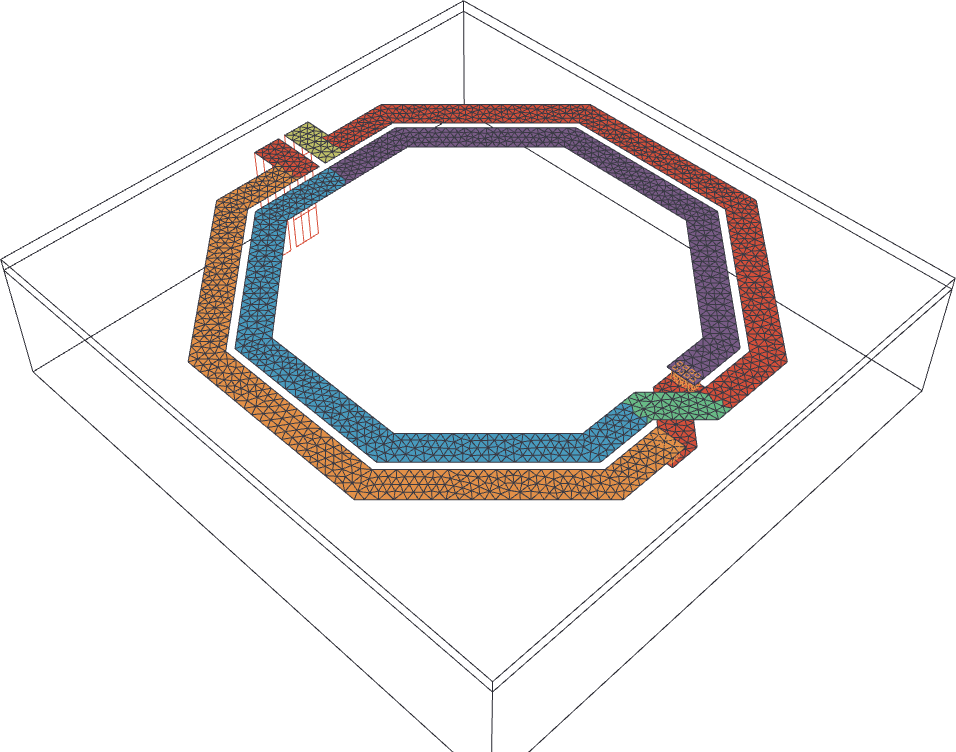
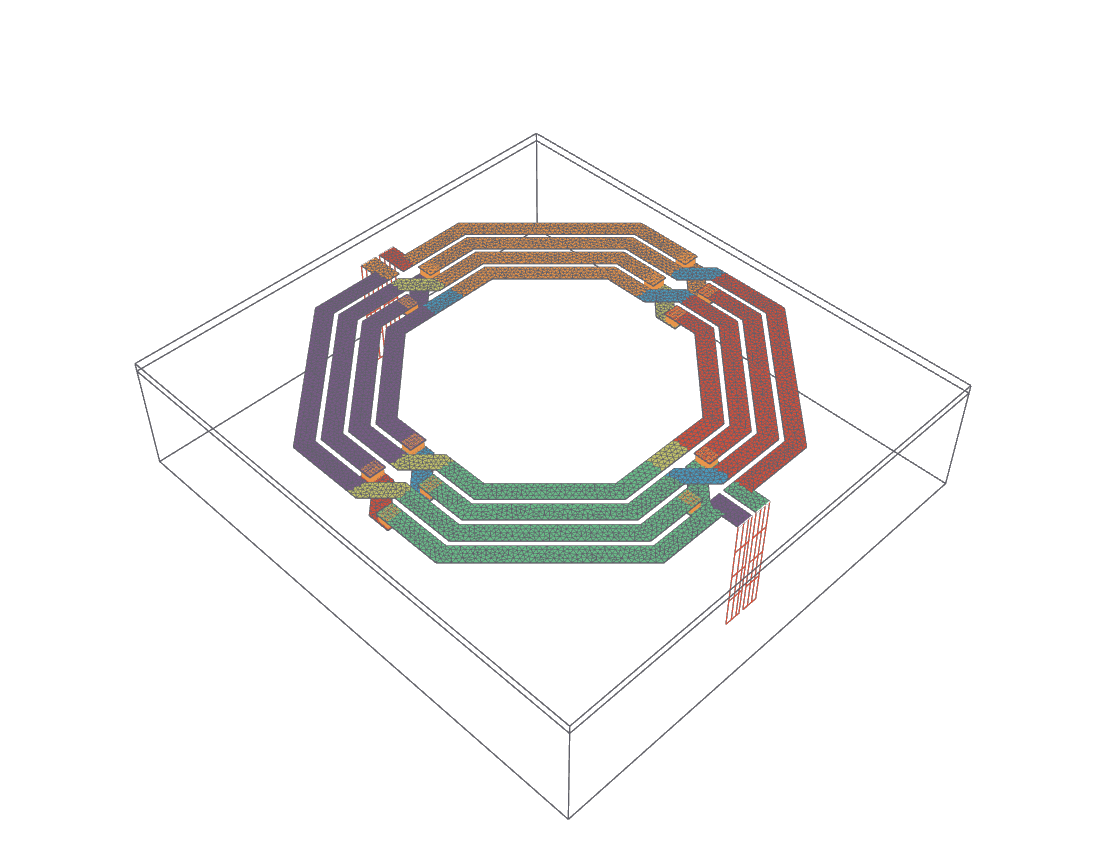
rapidmom tiles: transformer D250 mesh + current density renders (replace inductor images)

diff --git a/src/lib/components/CodeRainPage.svelte b/src/lib/components/CodeRainPage.svelte
@@ -38,7 +38,7 @@
 		'pysimhub-io': { name: 'PySimHub', url: 'https://pysimhub.io', screenshot: '/screenshots/pysimhub-io.png', color: 'pysimhub' },
 		'pysimhub-pathsim': { name: 'Project Page', url: 'https://pysimhub.io/projects/pathsim/', screenshot: '/screenshots/pysimhub-pathsim.png', color: 'pysimhub' },
 		'rapidpassives-org': { name: 'RapidPassives', url: 'https://rapidpassives.org', screenshot: '/screenshots/rapidpassives-org.png', color: 'rapidpassives', themeParam: false },
-		'rapidmom-mesh': { name: 'Inductor Mesh', url: 'mailto:[email redacted]', screenshot: '/images/rapidmom-mesh.png', color: 'rapidpassives', themeParam: false, fit: 'contain' },
+		'rapidmom-mesh': { name: 'Transformer Mesh', url: 'mailto:[email redacted]', screenshot: '/images/rapidmom-mesh.png', color: 'rapidpassives', themeParam: false, fit: 'contain' },
 		'rapidmom-current': { name: 'Current Density', url: 'mailto:[email redacted]', screenshot: '/images/rapidmom-current.png', color: 'rapidpassives', themeParam: false, fit: 'contain' },
 		'rapidfem-editor': { name: 'Iris Filter', url: 'https://fem.rapidpassives.org/notebook?example=fd_iris_filter', screenshot: '/screenshots/rapidfem-editor.png', color: 'rapidpassives', themeParam: false },
 		'rapidmesh-site': { name: 'RapidMesh', url: 'https://mesh.rapidpassives.org', screenshot: '/screenshots/rapidmesh-site.png', color: 'rapidpassives', themeParam: false },